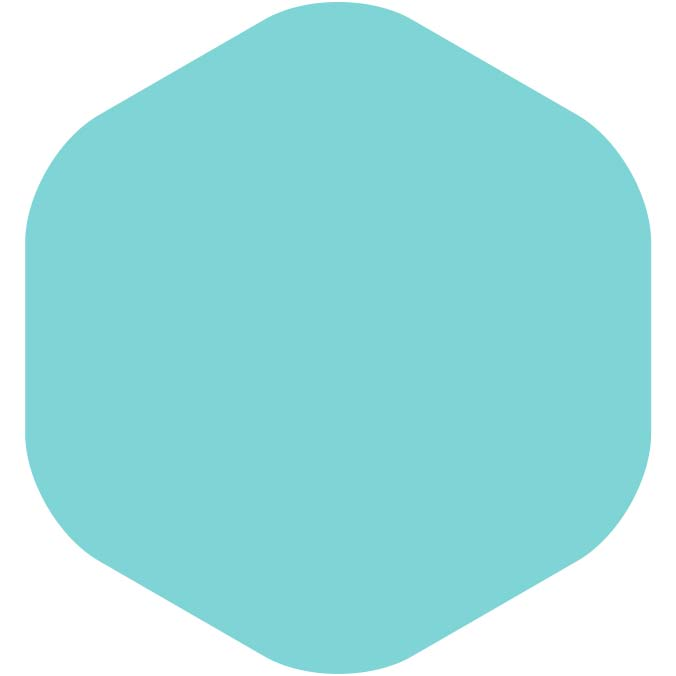
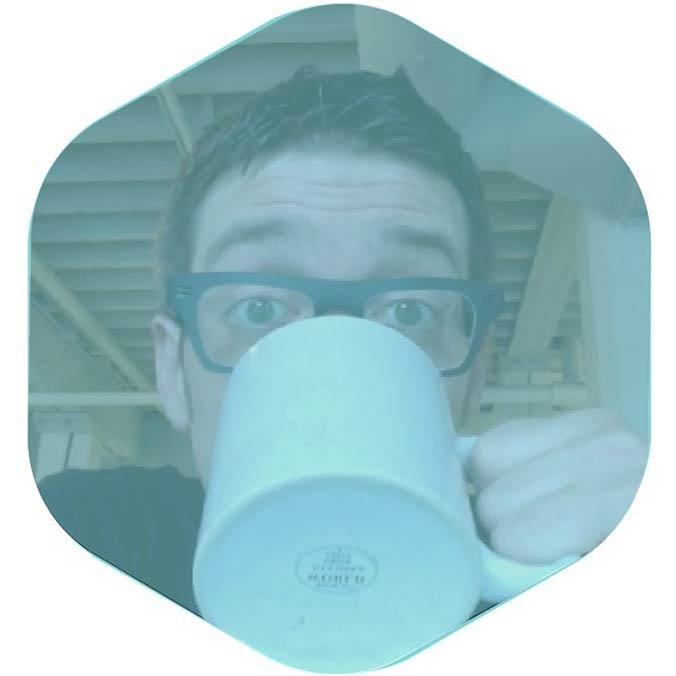
Create Zach Pictures

diff --git a/db/seeds.rb b/db/seeds.rb
@@ -481,7 +481,7 @@ speaker_info = {
   bio: %{Zachary Smith is a Director of Technology & Innovation and mischief maker at Substantial, a digital product studio committed to building brilliant technology experiences. When not bending computers to his will, Zachary enjoys riding and racing bicycles, cross country skiing, spending time with his wife & daughter and trying his best to stay out of trouble. He has been accused of being a coffee snob but blames Seattle for this. He is a mid-western transplant. He is a fairly recent football fan and a long-time ice hockey fan. He believes that technology has the ability to dramatically change the world, that designers & developers have a truly amazing opportunity to share new ideas in meaningful ways, and that there is a better way to do just about anything.
   },
   slug: "zachary-smith",
-  headshot_filename: "blank.jpg",
+  headshot_filename: "zacharySmith.jpg",
   position: 25,
   talk_title: "Fostering Digital Craftsmanship",
   talk_description: "We know intuitively whether something “sucks” or not, but how can we really define what a quality product is in the digital realm? Whether it’s writing code that’s maintainable, modular, and reusable, or designing for both high usability and delight, as product builders we now have to concern ourselves with areas beyond our particular discipline. How can we stretch ourselves—and our teams—to bring the same level of polish as our heroes in the physical product realm? How can you instill this mindset throughout your organization? How do you balance creativity and innovation with reality and pragmatism? This talk will discuss how we can define what quality is and introduce a cross-disciplinary framework that can guide you and your teams to excellence in your work.",
